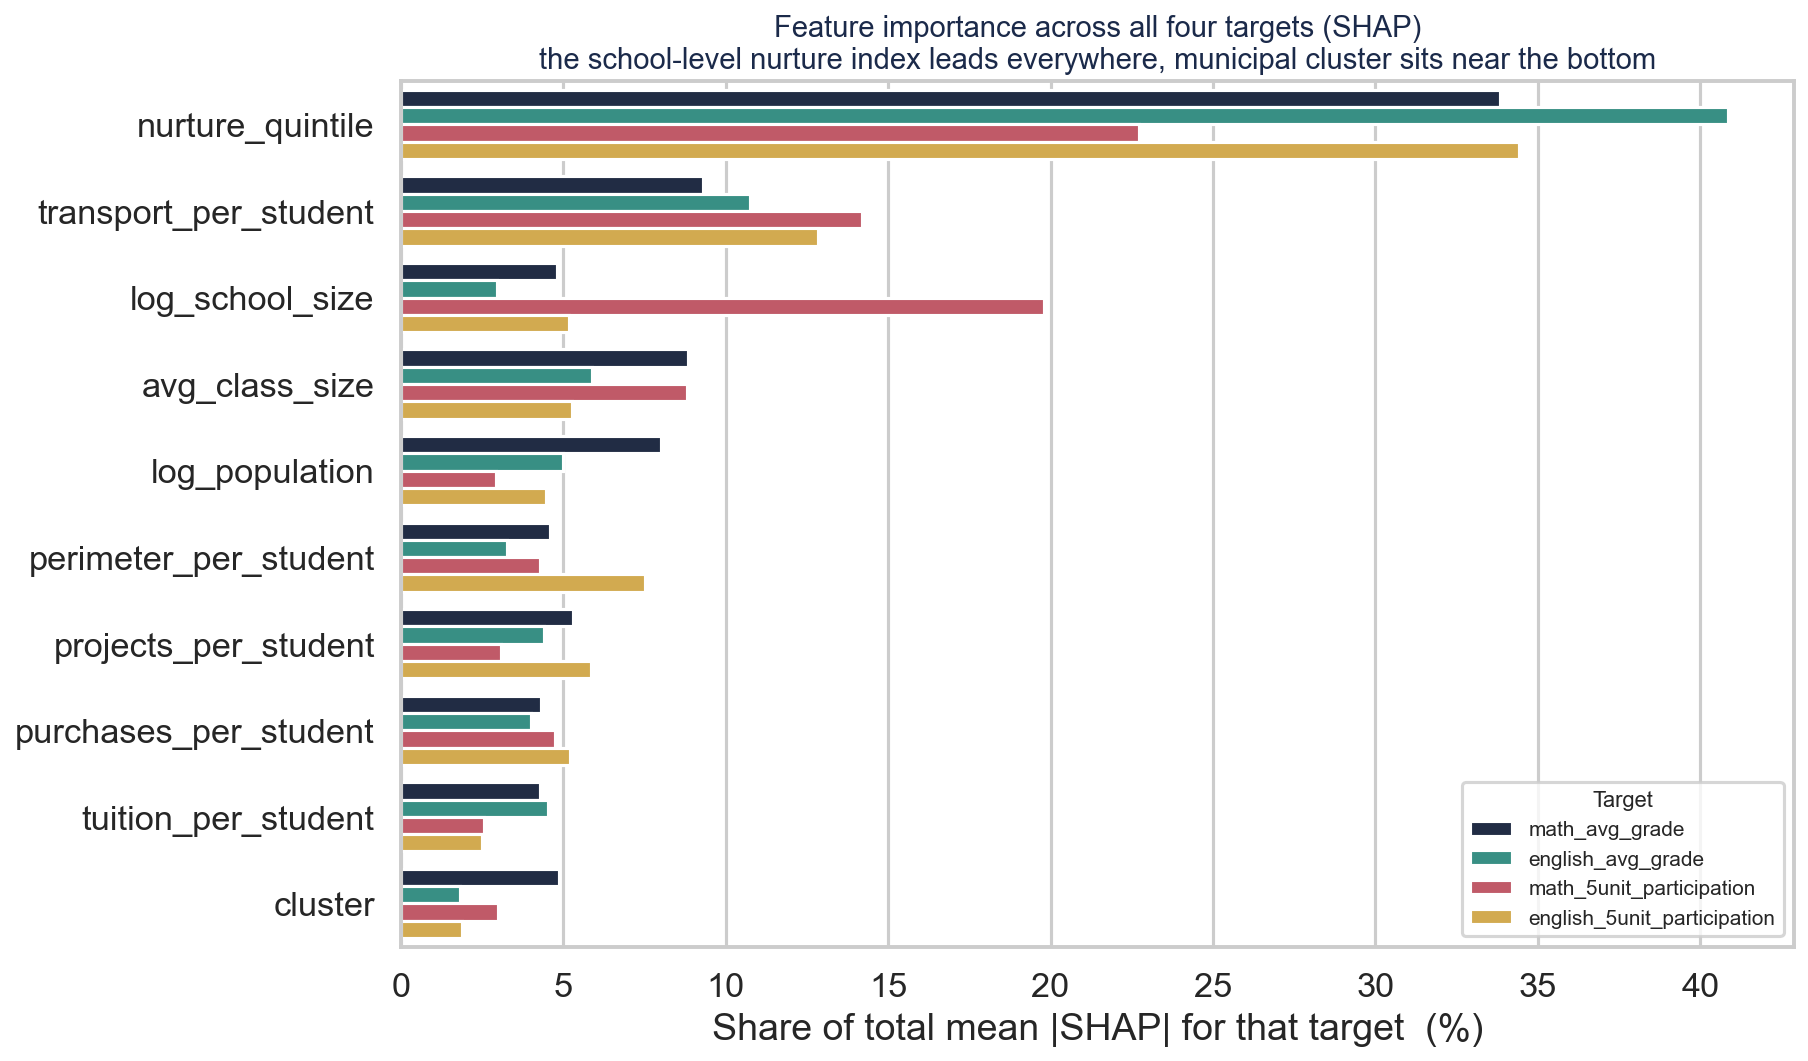
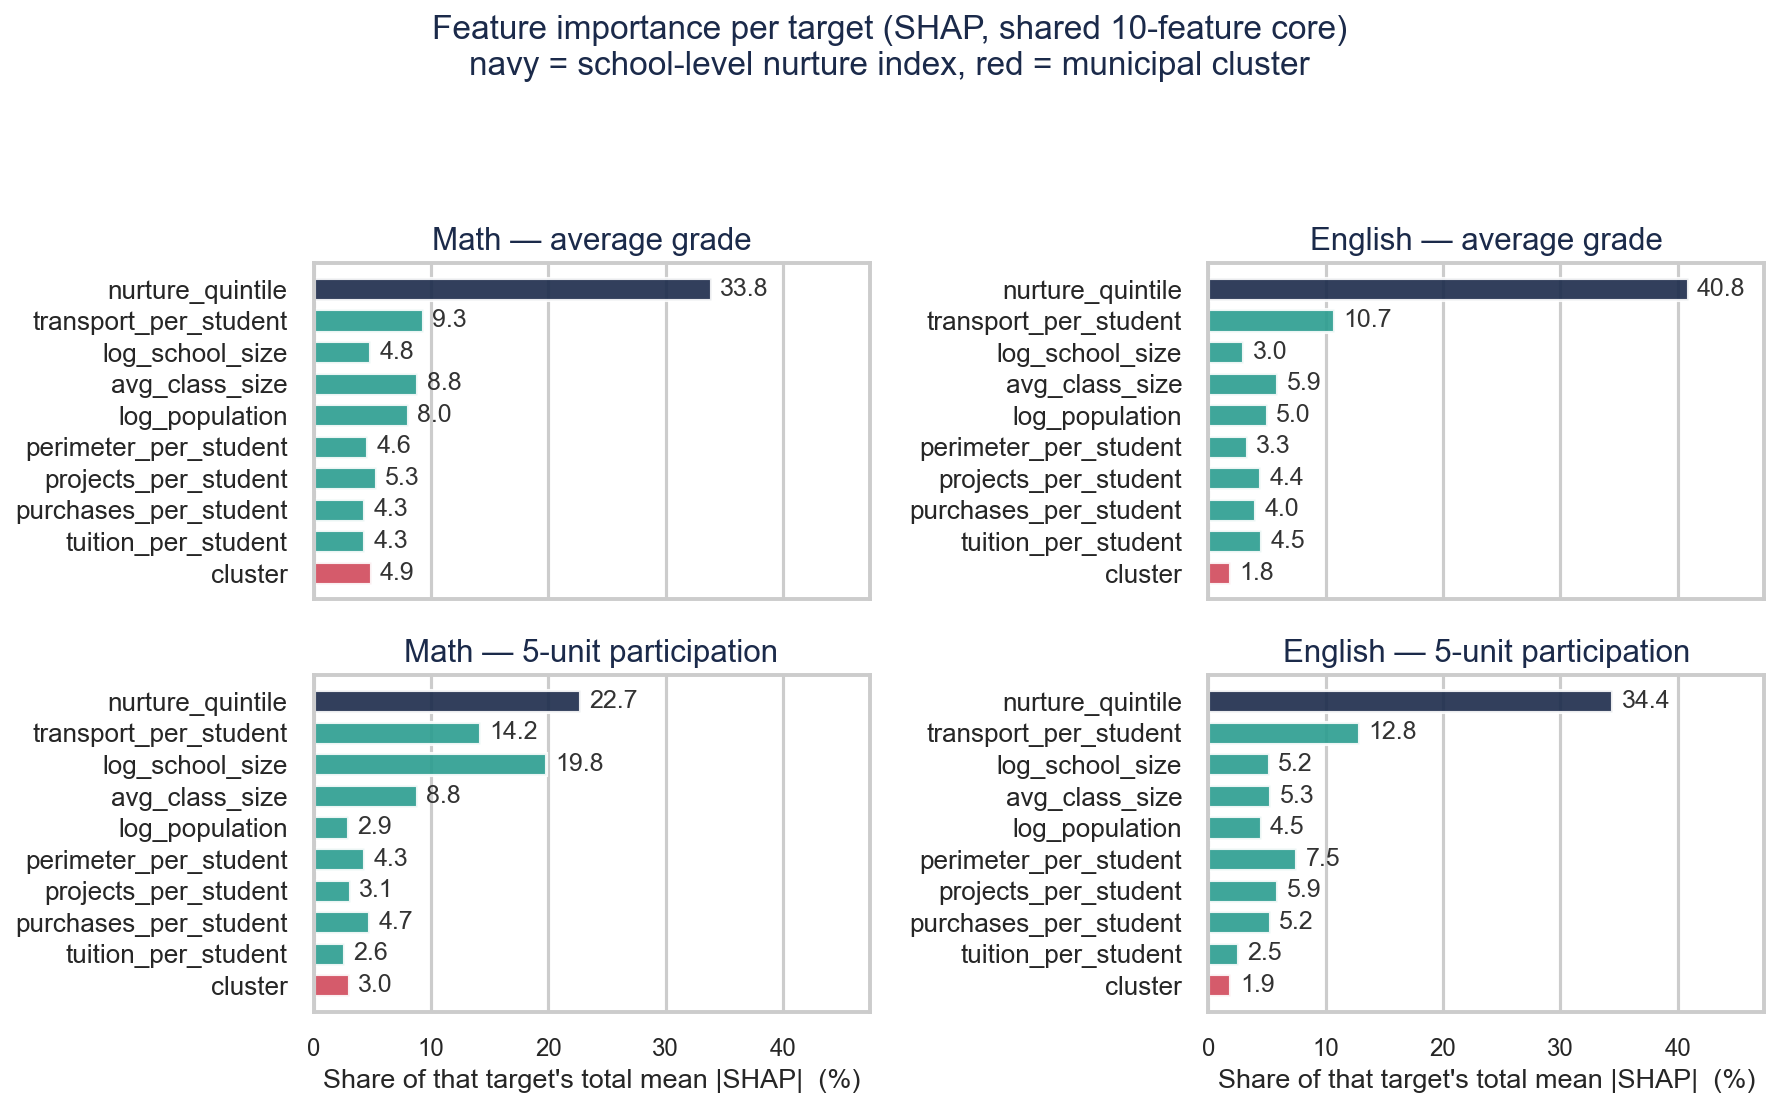
polish(step5): split SHAP core ranking into one panel per target
A single 40-bar grouped chart was too dense to read. Small multiples
(one 10-bar panel per target, shared x-axis and shared feature order)
compare just as directly while staying legible at report scale, with
each bar's share printed and the nurture index and municipal cluster
colour-highlighted.

Changed region(s): [[0.0, 0.0, 1.0, 0.9953]]

diff --git a/step_5_predictive_modeling_explainability/code/explain.py b/step_5_predictive_modeling_explainability/code/explain.py
@@ -192,18 +192,34 @@ def plot_shap_core_ranking(importances: dict[str, pd.Series], out_dir: Path) -> 
     long = pd.DataFrame(rows)
     order = (long.groupby("feature")["share"].mean()
              .sort_values(ascending=False).index.tolist())
+    targets = list(importances.keys())
 
-    fig, ax = plt.subplots(figsize=(12.4, 7.4))
-    sns.barplot(data=long, y="feature", x="share", hue="target", order=order,
-                palette=[NAVY, TEAL, CORAL, GOLD], ax=ax)
-    ax.set_xlabel("Share of total mean |SHAP| for that target  (%)")
-    ax.set_ylabel("")
-    ax.set_title("Feature importance across all four targets (SHAP)\n"
-                 "the school-level nurture index leads everywhere, "
-                 "municipal cluster sits near the bottom",
-                 fontsize=14, color=NAVY)
-    ax.legend(title="Target", fontsize=10, title_fontsize=10.5, loc="lower right")
-    fig.tight_layout()
+    # One small-multiple panel per target: 40 bars in a single grouped chart is
+    # unreadable, whereas four 10-bar panels sharing an x-axis compare cleanly.
+    fig, axes = plt.subplots(2, 2, figsize=(12.2, 7.4), sharex=True)
+    xmax = long["share"].max() * 1.16
+    for ax, target in zip(axes.flat, targets):
+        sub = long[long["target"] == target].set_index("feature").reindex(order)
+        colors = [NAVY if f == "nurture_quintile" else (CORAL if f == "cluster" else TEAL)
+                  for f in order]
+        ypos = np.arange(len(order))
+        ax.barh(ypos, sub["share"].to_numpy(), color=colors, height=0.70, alpha=0.9)
+        for i, v in enumerate(sub["share"].to_numpy()):
+            ax.text(v + 0.8, i, f"{v:.1f}", va="center", fontsize=12, color="#333333")
+        ax.set_yticks(ypos)
+        ax.set_yticklabels(order, fontsize=12.5)
+        ax.invert_yaxis()
+        ax.set_title(TARGET_LABELS.get(target, target), fontsize=15, color=NAVY, pad=6)
+        ax.set_xlim(0, xmax)
+        ax.tick_params(axis="x", labelsize=11.5)
+        ax.grid(axis="y", visible=False)
+    for ax in axes[1]:
+        ax.set_xlabel("Share of that target's total mean |SHAP|  (%)", fontsize=13)
+
+    fig.suptitle("Feature importance per target (SHAP, shared 10-feature core)\n"
+                 "navy = school-level nurture index, red = municipal cluster",
+                 fontsize=16, color=NAVY, y=1.01)
+    fig.tight_layout(rect=(0, 0, 1, 0.95))
     path = out_dir / "shap_core_ranking.png"
     fig.savefig(path, dpi=150, bbox_inches="tight")
     plt.close(fig)
